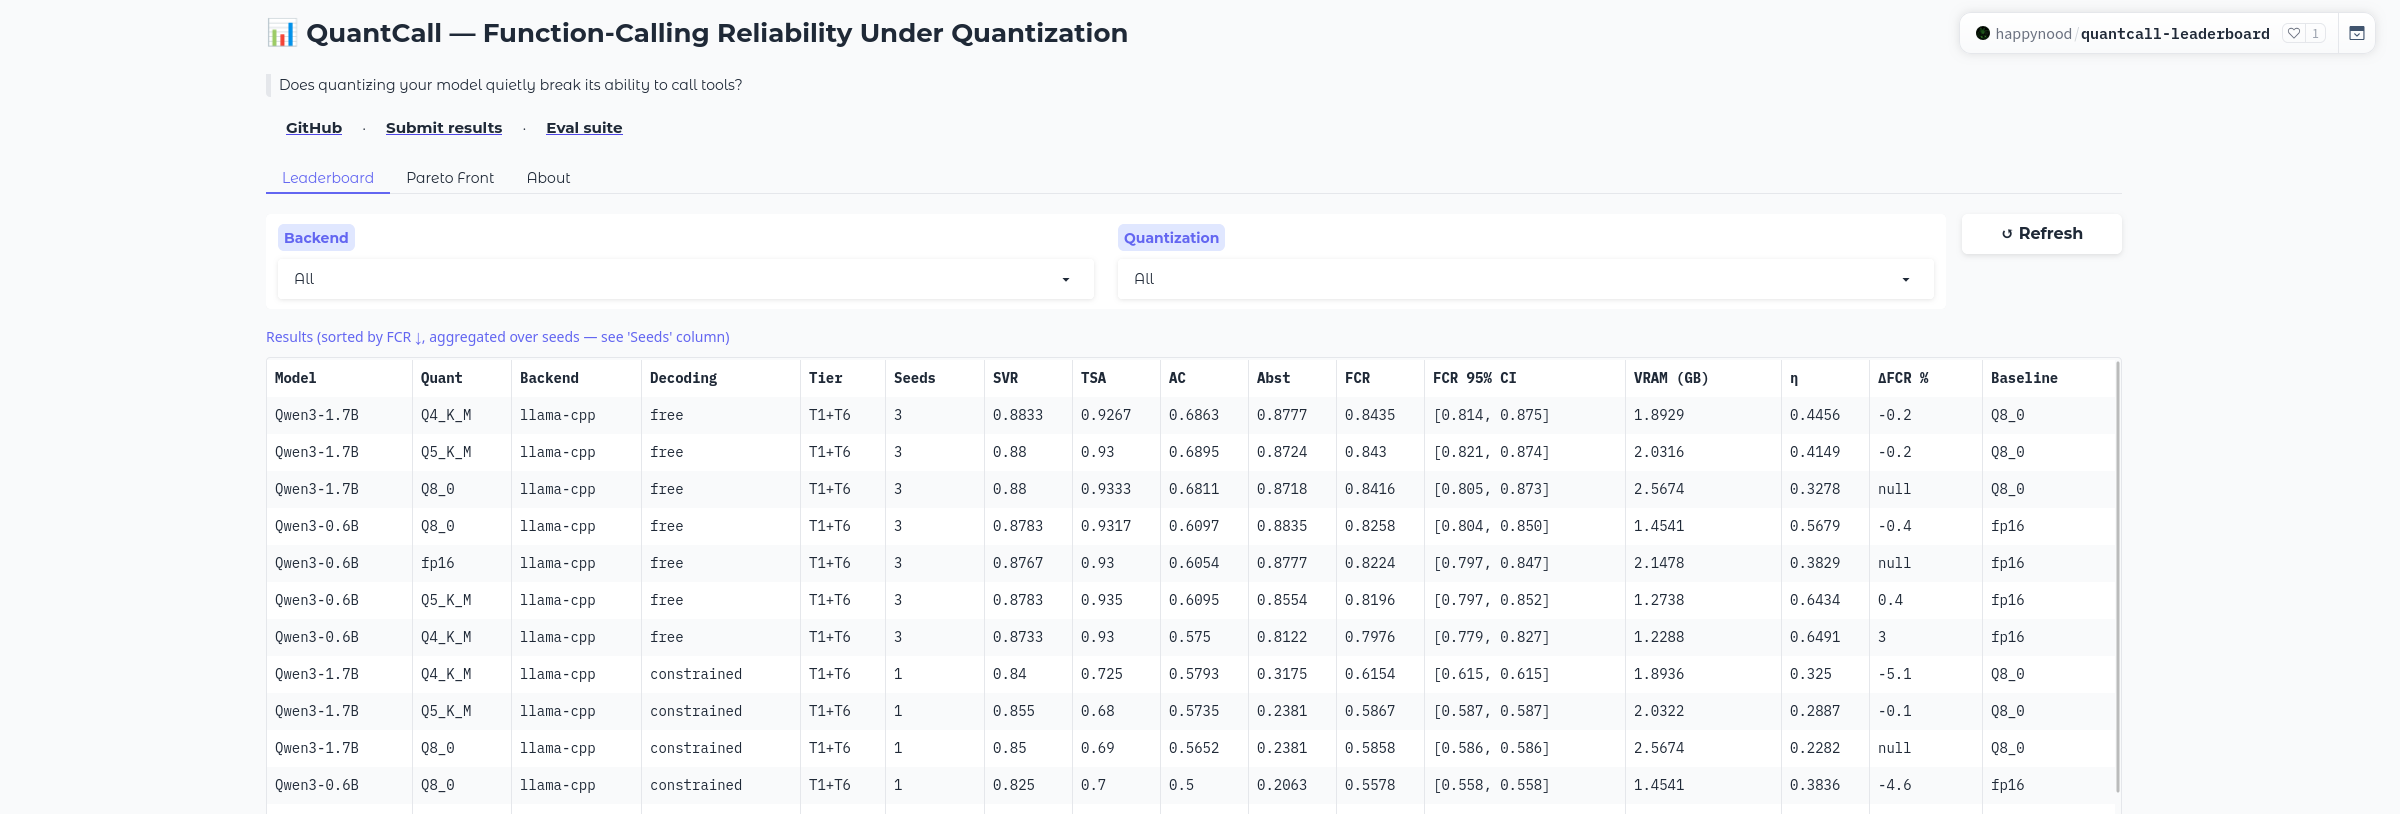
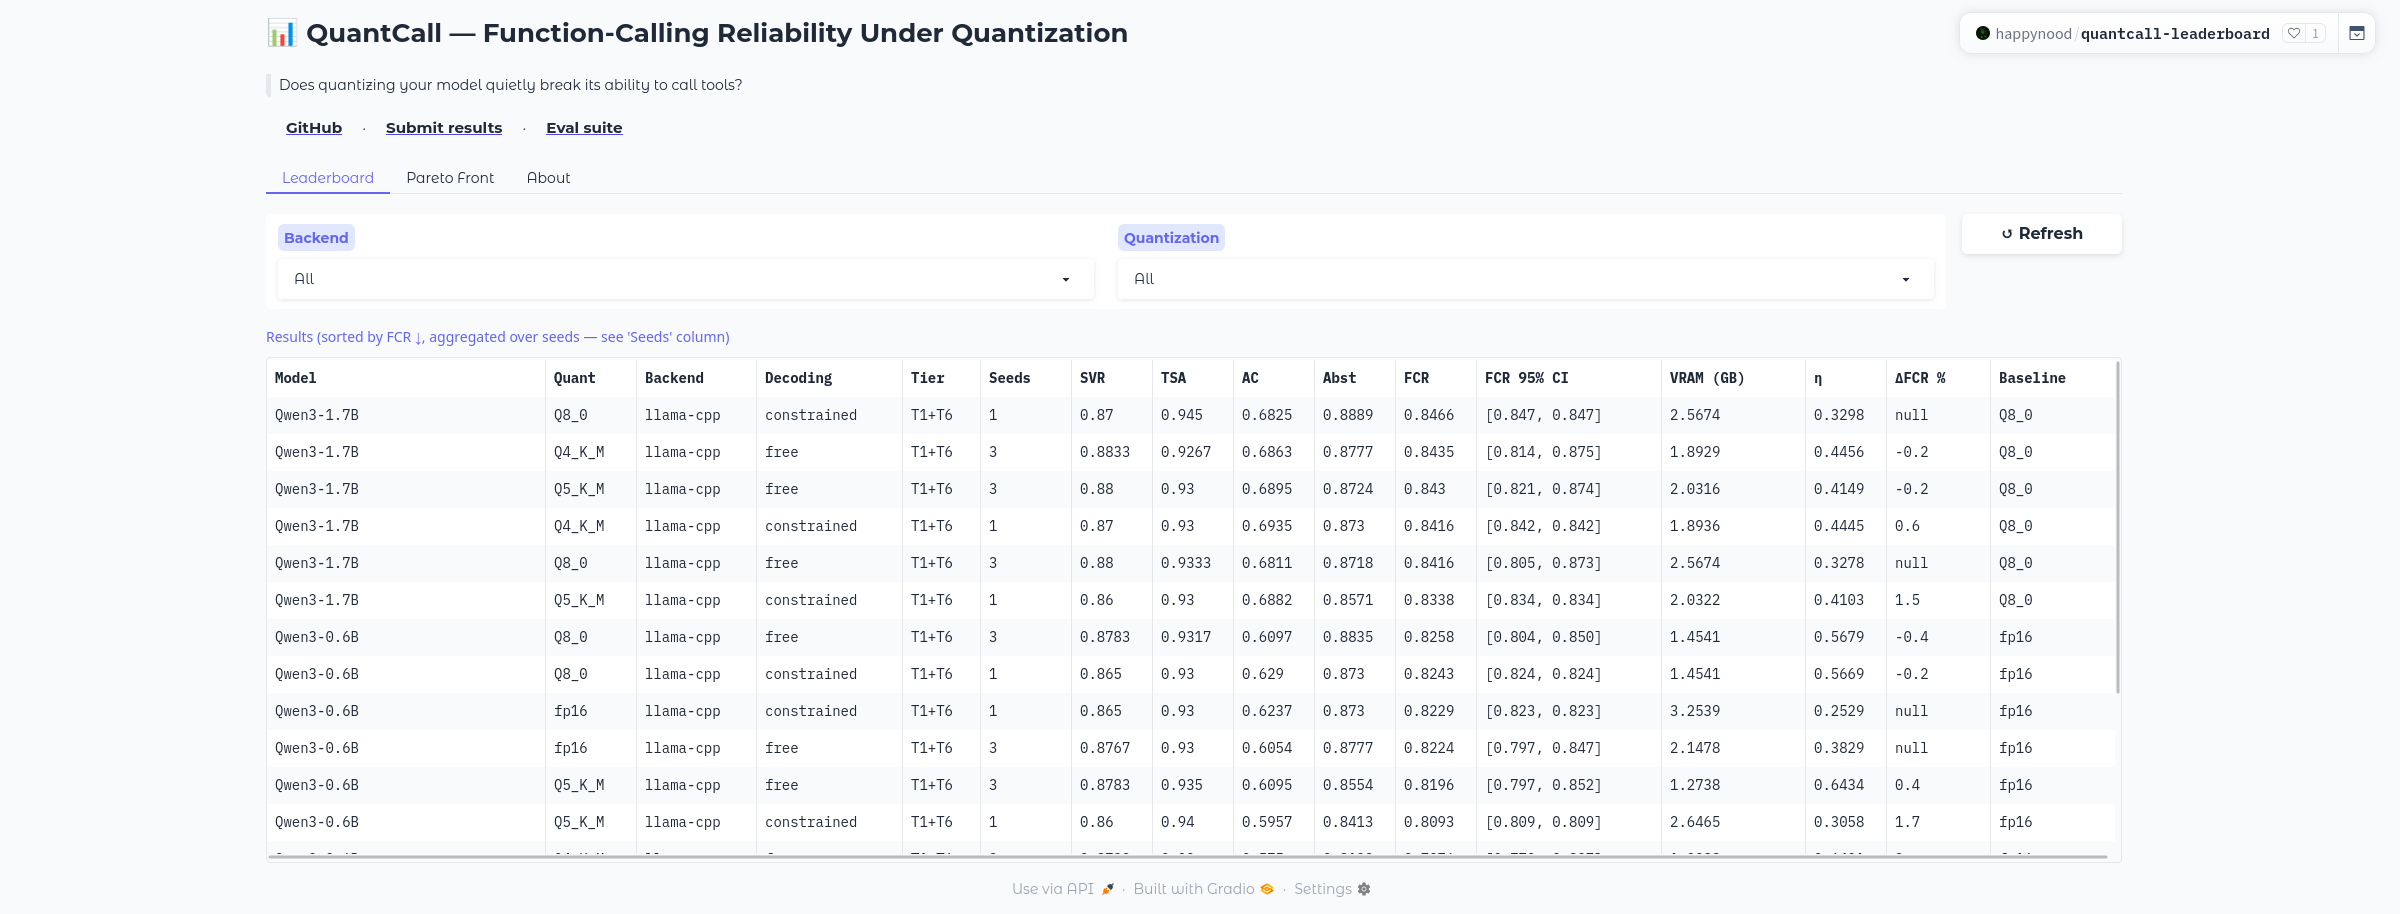
docs: honest cross-family README with Llama-3.2-1B + Qwen3 real numbers
- README leaderboard table replaced with all three model variants
  (Qwen3-0.6B, Qwen3-1.7B, Llama-3.2-1B), each row's significance verdict
  taken directly from scripts/delta_significance.py's bootstrap-CI-on-the-
  delta output, not from eyeballing point estimates.
- Real headline: model FAMILY predicts quantization sensitivity more than
  model size here. Llama-3.2-1B shows a significant SVR drop at every
  quant tested including Q8_0; Qwen3-0.6B only crosses that bar at Q4_K_M
  (and only on AC/FCR, not SVR); Qwen3-1.7B never does. Framed as the
  precise, non-alarmist finding the data supports ("Q4 is probably fine
  for Qwen3, check your own numbers for other families") rather than a
  manufactured cliff.
- T3 (ToolACE) Dataset Tiers row updated: it's no longer a manifest-only
  placeholder, it has a real, verified loader now (see the earlier
  commit that replaced the fabricated-schema implementation).
- Retook both Space screenshots against the live 18-row leaderboard (was
  14, missing the newly-published Llama-3.2-1B rows) -- the Pareto chart
  now visibly shows the Llama-3.2-1B cluster separated from the Qwen3
  cluster, corroborating the README's numeric claim.
- configs/broader-tiers/: 12 configs for a T2+T3 (parallel-calling +
  ToolACE) breadth check across both fp16-capable model families, 2 quant
  extremes (fp16, Q4_K_M) x 3 seeds. Real GPU data collection is in
  progress but each 200-instance run on these tiers takes ~20 minutes
[…]

diff --git a/README.md b/README.md
@@ -5,12 +5,12 @@
 [![License: MIT](https://img.shields.io/badge/License-MIT-green.svg)](LICENSE)
 [![Leaderboard](https://img.shields.io/badge/🤗%20Space-Leaderboard-yellow)](https://huggingface.co/spaces/happynood/quantcall-leaderboard)
 
-> *"Quantizing a 0.6B tool-calling model down to Q4_K_M produces a real,
-> statistically significant drop in argument correctness — but the same
-> quant on a 1.7B model from the same family shows no significant
-> degradation at all. Model size changes quantization sensitivity more
-> than the quant level itself does. Find out on your own hardware, in one
-> command."*
+> *"A 1B Llama and a 0.6B Qwen3 look similar-sized on paper. Under
+> quantization they behave nothing alike: the Llama model shows a
+> statistically significant schema-validity drop at every quant level we
+> tested, down to Q8_0. The Qwen3 model only shows a significant drop at
+> Q4_K_M. Model family predicts quantization sensitivity more than model
+> size does. Find out on your own hardware, in one command."*
 
 A reproducible benchmark measuring the degradation of function-calling / structured-output in open-weight LLMs under quantization and across inference backends.
 
@@ -19,50 +19,64 @@ A reproducible benchmark measuring the degradation of function-calling / structu
 ## Leaderboard
 
 Real results, run on an RTX 3050 Laptop GPU (4096 MiB VRAM) against BFCL v4
-(T1 simple/multiple + T6 irrelevance, n=200/seed, 3 seeds, greedy decoding).
-**Qwen3-0.6B was picked specifically because its fp16 weights (~1.5 GB) fit
-a 4 GB card** — a genuine fp16 baseline, not a fallback. Qwen3-1.7B's fp16
-(bf16, ~4.07 GB) does *not* fit at a usable context length (real CUDA OOM at
-`n_ctx=4096` and `n_ctx=2048`; only loads at `n_ctx=512`, too small for
-BFCL's tool-schema prompts — see [docs/RUN_REAL.md](docs/RUN_REAL.md)), so
-**Q8_0 is its Δ reference precision**, labeled explicitly as `baseline_quant`
-in the published data. With only 3 repeats per quant level, CIs are wide;
-significance verdicts below come from bootstrapping the paired per-seed
-delta itself (`scripts/delta_significance.py`), not just eyeballing overlap.
-Raw per-seed results: [🤗 quantcall-results dataset](https://huggingface.co/datasets/happynood/quantcall-results).
+(T1 simple/multiple + T6 irrelevance, n=200/seed, 3 seeds, greedy decoding),
+across two model families picked specifically because their fp16 weights
+fit a 4 GB card (Qwen3-1.7B's don't — see caveat below). Significance
+verdicts come from bootstrapping the paired per-seed delta itself
+(`scripts/delta_significance.py`), not from eyeballing whether two point
+estimates' CIs overlap. Raw per-seed results:
+[🤗 quantcall-results dataset](https://huggingface.co/datasets/happynood/quantcall-results).
 
-| Model | Quant | SVR | TSA | AC | FCR (95% CI) | VRAM (GB) | ΔAC vs baseline |
-|-------|-------|-----|-----|----|--------------| ----------|------------------|
+| Model | Quant | SVR | TSA | AC | FCR (95% CI) | VRAM (GB) | Significant degradation vs fp16/baseline? |
+|-------|-------|-----|-----|----|--------------| ----------|---------------------------------------------|
 | Qwen3-0.6B | fp16 (baseline) | 0.877 | 0.930 | 0.605 | 0.822 [0.797, 0.847] | 2.15 | — |
-| Qwen3-0.6B | Q8_0 | 0.878 | 0.932 | 0.610 | 0.826 [0.804, 0.850] | 1.45 | −0.7% (not significant) |
-| Qwen3-0.6B | Q5_K_M | 0.878 | 0.935 | 0.609 | 0.820 [0.797, 0.852] | 1.27 | −0.7% (not significant) |
-| Qwen3-0.6B | Q4_K_M | 0.873 | 0.930 | 0.575 | 0.798 [0.779, 0.827] | 1.23 | **+5.0% (SIGNIFICANT, 95% CI [+2.6%, +7.3%] relative, excludes 0)** |
-| Qwen3-1.7B | Q8_0 (baseline) | 0.880 | 0.933 | 0.681 | 0.842 [0.805, 0.873] | 2.57 | — |
-| Qwen3-1.7B | Q5_K_M | 0.880 | 0.930 | 0.690 | 0.843 [0.821, 0.874] | 2.03 | −1.2% (not significant) |
-| Qwen3-1.7B | Q4_K_M | 0.883 | 0.927 | 0.686 | 0.844 [0.814, 0.875] | 1.89 | −0.8% (not significant) |
+| Qwen3-0.6B | Q8_0 | 0.878 | 0.932 | 0.610 | 0.826 [0.804, 0.850] | 1.45 | No (all CIs cross 0) |
+| Qwen3-0.6B | Q5_K_M | 0.878 | 0.935 | 0.609 | 0.820 [0.797, 0.852] | 1.27 | No (all CIs cross 0) |
+| Qwen3-0.6B | Q4_K_M | 0.873 | 0.930 | 0.575 | 0.798 [0.779, 0.827] | 1.23 | **AC & FCR yes** (AC 95% CI on Δ: [+2.6%, +7.3%] rel.) |
+| Qwen3-1.7B | Q8_0 (baseline\*) | 0.880 | 0.933 | 0.681 | 0.842 [0.805, 0.873] | 2.57 | — |
+| Qwen3-1.7B | Q5_K_M | 0.880 | 0.930 | 0.690 | 0.843 [0.821, 0.874] | 2.03 | No (all CIs cross 0) |
+| Qwen3-1.7B | Q4_K_M | 0.883 | 0.927 | 0.686 | 0.844 [0.814, 0.875] | 1.89 | No (all CIs cross 0) |
+| Llama-3.2-1B | fp16 (baseline) | 0.327 | 0.640 | 0.188 | 0.301 [0.277, 0.327] | 2.84 | — |
+| Llama-3.2-1B | Q8_0 | 0.305 | 0.637 | 0.176 | 0.284 [0.266, 0.302] | 1.77 | **SVR, AC & FCR yes** |
+| Llama-3.2-1B | Q5_K_M | 0.313 | 0.622 | 0.189 | 0.291 [0.278, 0.315] | 1.39 | **SVR yes**, AC/FCR no |
+| Llama-3.2-1B | Q4_K_M | 0.280 | 0.663 | 0.174 | 0.283 [0.258, 0.305] | 1.29 | **SVR, AC & FCR yes** (largest SVR drop: 95% CI on Δ [+0.040, +0.055] abs.) |
 
-**The real finding: quantization sensitivity depends heavily on model
-size.** Qwen3-0.6B shows a statistically significant AC and FCR degradation
-at Q4_K_M (bootstrap 95% CI on the delta excludes zero — see
-`scripts/delta_significance.py` output in `docs/`). Qwen3-1.7B shows **no
-significant degradation on SVR, AC, or FCR at any quant down to Q4_K_M** —
-every CI on the delta crosses zero. This is reported as-is, without
-manufacturing a clean monotonic story: bigger model, more quantization
-headroom, at least across this quant range on this benchmark.
+\* Qwen3-1.7B's fp16 (bf16, ~4.07 GB) does *not* fit at a usable context
+length (real CUDA OOM at `n_ctx=4096` and `n_ctx=2048`; only loads at
+`n_ctx=512`, too small for BFCL's tool-schema prompts — see
+[docs/RUN_REAL.md](docs/RUN_REAL.md)), so Q8_0 is its labeled fallback
+baseline. Every other row's baseline is a genuine fp16 run.
+
+**The real finding: model family, not model size, predicts quantization
+sensitivity here.** Llama-3.2-1B (1B params) shows a statistically
+significant SVR (schema-validity) drop at **every** quant level tested,
+including the mildest one (Q8_0) — its argument-correctness values are also
+low in absolute terms across the board (Llama tends to emit stringified
+numbers, e.g. `"10"` instead of `10`, which standard JSON Schema validation
+correctly rejects — see `docs/parser_audit.md`). Qwen3-0.6B (a smaller
+0.6B model) is comparatively robust: no significant degradation until
+Q4_K_M, and even there only AC/FCR cross the significance bar, not SVR.
+Qwen3-1.7B shows no significant degradation at any quant tested. None of
+this was cherry-picked for a clean story — the full breadth is: **on this
+benchmark, if you're using a Qwen3-family model, Q4_K_M is probably fine
+for tool-calling; if you're using this Llama-3.2 model, even Q8_0 already
+measurably hurts schema validity, so check your own numbers before
+assuming a "safe" quant level carries over between model families.**
 
 We also ran a constrained-decoding (GBNF) pass — full analysis, including a
 real segfault we found and fixed in the process, in
 [docs/constrained_decoding_findings.md](docs/constrained_decoding_findings.md).
-Headline: it did **not** improve SVR/AC here, and abstention/FCR collapse
-under it because the grammar structurally cannot express "don't call a
-tool" — a genuine limitation of this GBNF implementation, disclosed rather
-than hidden.
+Headline: after fixing the grammar to allow correct abstention (a real
+methodology bug in an earlier pass), constrained decoding did **not**
+measurably improve SVR or AC for Qwen3 here, and cost 6-86% more wall-clock
+time per instance — a real, disclosed cost with no measured quality
+benefit on this benchmark.
 
 Live table + Pareto chart: [🤗 Space](https://huggingface.co/spaces/happynood/quantcall-leaderboard).
 
 <p align="center">
-  <img src="docs/screenshots/space-leaderboard.png" width="47%" alt="QuantCall Space leaderboard tab, populated with real Qwen3-0.6B/1.7B rows across free and constrained decoding">
-  <img src="docs/screenshots/space-pareto.png" width="47%" alt="QuantCall Space Pareto Front tab, plotting real FCR vs peak VRAM points">
+  <img src="docs/screenshots/space-leaderboard.png" width="47%" alt="QuantCall Space leaderboard tab, populated with real Qwen3-0.6B/1.7B and Llama-3.2-1B rows across free and constrained decoding">
+  <img src="docs/screenshots/space-pareto.png" width="47%" alt="QuantCall Space Pareto Front tab, plotting real FCR vs peak VRAM points -- showing the Llama-3.2-1B cluster clearly below the Qwen3 cluster">
 </p>
 
 ---
@@ -110,7 +124,7 @@ quantcall run --config configs/smoke.yaml --output results/smoke.json
 | T1 | BFCL v4 simple_python + multiple | Manual JSON download from Berkeley (see `docs/RUN_REAL.md`) |
 | T2 | BFCL v4 parallel + parallel_multiple | Manual JSON download |
 | T6 | BFCL v4 irrelevance | Manual JSON download |
-| T3 | ToolACE (`Team-ACE/ToolACE`) | CC-BY-NC 4.0 — manifest-only, no redistribution |
+| T3 | ToolACE (`Team-ACE/ToolACE`) | CC-BY-NC 4.0 — loaded live from the HF hub at eval time via `load_toolace()`, never redistributed by this repo. Multi-turn conversations reduced to the first (user, assistant) exchange; ground truth is Python-call-list syntax with function names that may contain spaces (`src/quantcall/datasets/toolace.py`) |
 | T4 | xLAM ungated mirror (`minpeter/xlam-function-calling-60k-parsed`) | NC/gated — manifest-only; gated Salesforce source behind `use_gated_xlam: true` |
 | T5 | Hermes function-calling v1 (`teknium/hermes-function-calling-v1`) | Apache 2.0; bundles glaive-function-calling-5k (credit both); reconstructed from source via manifest (not redistributed) |
 